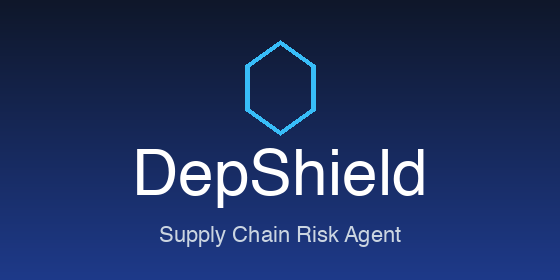
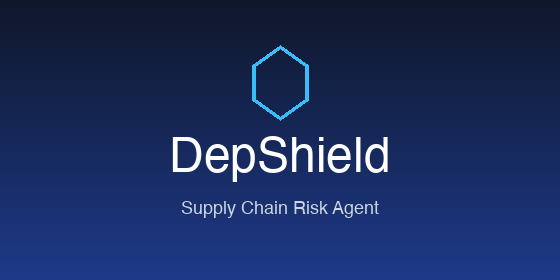
docs: format writeup and resize thumbnail font

Changed region(s): [[0.2429, 0.1429, 0.7589, 0.7714], [0.2732, 0.8, 0.7286, 0.8857]]

diff --git a/docs/writeup.md b/docs/writeup.md
@@ -2,13 +2,30 @@
 
 ## Problem
 
-Modern software is built on top of hundreds of open-source dependencies. Each dependency is a potential source of security vulnerabilities, license conflicts, maintenance debt, typosquatting attacks, or leaked secrets. Existing tools often focus on a single risk type, require complex configuration, or produce noisy reports that engineers struggle to act on.
+Modern software is built on top of hundreds of open-source dependencies. Every package pulled into a project is a potential source of:
+
+- Security vulnerabilities
+- License conflicts
+- Maintenance debt
+- Typosquatting attacks
+- Leaked secrets
+
+Most teams do not have time to audit every dependency. Existing tools usually focus on a single risk type, require complex configuration, or produce noisy reports that engineers struggle to act on.
 
 DepShield solves this by combining multiple supply-chain risk checks into one cohesive, agentic analysis pipeline. It clones a GitHub repository, extracts its dependency tree, runs several specialist analyses in parallel, and returns a prioritized risk report with a concrete remediation plan.
 
 ## Solution
 
-DepShield is a multi-agent system built with the Google Agent Development Kit (ADK). A single orchestrator agent receives a repository URL and coordinates parallel specialist agents for ingestion, vulnerability scanning, license analysis, maintenance scoring, typosquat detection, and secret scanning. A risk synthesizer combines the findings, a remediation agent generates actionable steps, and a report agent renders the results as an HTML dashboard and Markdown summary.
+DepShield is a multi-agent system built with the Google Agent Development Kit (ADK). A single orchestrator agent receives a repository URL and coordinates parallel specialist agents for:
+
+- Ingestion
+- Vulnerability scanning
+- License analysis
+- Maintenance scoring
+- Typosquat detection
+- Secret scanning
+
+A risk synthesizer combines the findings, a remediation agent generates actionable steps, and a report agent renders the results as an HTML dashboard and Markdown summary.
 
 The system is packaged as an Agents CLI skill (`agent.json`), exposes core tools through an MCP server, and is containerized for deployment to Google Cloud Run.
 
@@ -16,44 +33,44 @@ The system is packaged as an Agents CLI skill (`agent.json`), exposes core tools
 
 The pipeline has five stages:
 
-1. **Ingestion** — clones the repository with a shallow, time-bounded git fetch and parses `requirements.txt` and PEP 621 `pyproject.toml` files.
+1. **Ingestion** — clones the repository with a shallow, time-bounded git fetch and parses `requirements.txt`, PEP 621 `pyproject.toml`, and `package.json` files.
 2. **Specialist analysis** — parallel agents query OSV for vulnerabilities, PyPI for license and maintainer metadata, compare names against popular packages for typosquats, and scan the repo for secrets.
 3. **Synthesis** — raw findings are normalized into `RiskIssue` objects, sorted by severity, and aggregated into an overall score from 0 to 100.
-4. **Remediation** — the top issues are turned into ordered steps such as "Upgrade package X to version Y" or "Replace suspicious typosquat package Z."
+4. **Remediation** — the top issues are turned into ordered steps such as “Upgrade package X to version Y” or “Replace suspicious typosquat package Z.”
 5. **Reporting** — results are rendered through a Jinja2 HTML dashboard and a Markdown summary.
 
 Security is built in from the start: GitHub URLs are validated with a strict regex, clones are shallow and size-capped, temporary directories are cleaned up on failure, the web UI includes per-IP rate limiting, and all logs are emitted as structured JSON.
 
 ## Key Technologies
 
-- **Google ADK** for the orchestrator and specialist agents.
-- **FastAPI + Jinja2** for the web dashboard.
-- **OSV API** for vulnerability data.
-- **PyPI API** for package metadata.
-- **MCP** for exposing reusable analysis tools.
-- **Docker + Google Cloud Run** for deployment.
+- **Google ADK** for the orchestrator and specialist agents
+- **FastAPI + Jinja2** for the web dashboard
+- **OSV API** for vulnerability data
+- **PyPI API** for package metadata
+- **MCP** for exposing reusable analysis tools
+- **Docker + Google Cloud Run** for deployment
 
 ## Results
 
 The implementation includes:
 
-- 13 automated tests covering repo cloning, manifest parsing, OSV queries, license detection, typosquat logic, secret scanning, risk synthesis, and remediation.
-- A working FastAPI UI that returns an HTML report.
-- A Docker image that runs the service on port 8080.
-- An MCP server exposing vulnerability and typosquat tools.
+- 13 automated tests covering repo cloning, manifest parsing, OSV queries, license detection, typosquat logic, secret scanning, risk synthesis, and remediation
+- A working FastAPI UI that returns an HTML report
+- A Docker image that runs the service on port 8080
+- An MCP server exposing vulnerability and typosquat tools
 
 Running DepShield against a small public Python repository produces a score, a list of top issues, and a remediation plan within seconds.
 
 ## Future Work
 
-- Add transitive dependency resolution using `pipdeptree` or `npm ls`.
-- Integrate `gitleaks` for more robust secret scanning.
-- Add CVSS score extraction from OSV severity data.
-- Support private repositories via `GITHUB_TOKEN`.
-- Add an evaluation harness with known vulnerable repositories.
+- Add transitive dependency resolution using `pipdeptree` or `npm ls`
+- Integrate `gitleaks` for more robust secret scanning
+- Add CVSS score extraction from OSV severity data
+- Support private repositories via `GITHUB_TOKEN`
+- Add an evaluation harness with known vulnerable repositories
 
 ## Submission Links
 
-- Repository: https://github.com/Samant-Patil1/deshield
-- Demo video: [YouTube link to be added]
-- Live demo: [Cloud Run URL to be added]
+- **Repository:** https://github.com/Samant-Patil1/deshield
+- **Demo video:** [YouTube link to be added]
+- **Live demo:** [Cloud Run URL to be added]